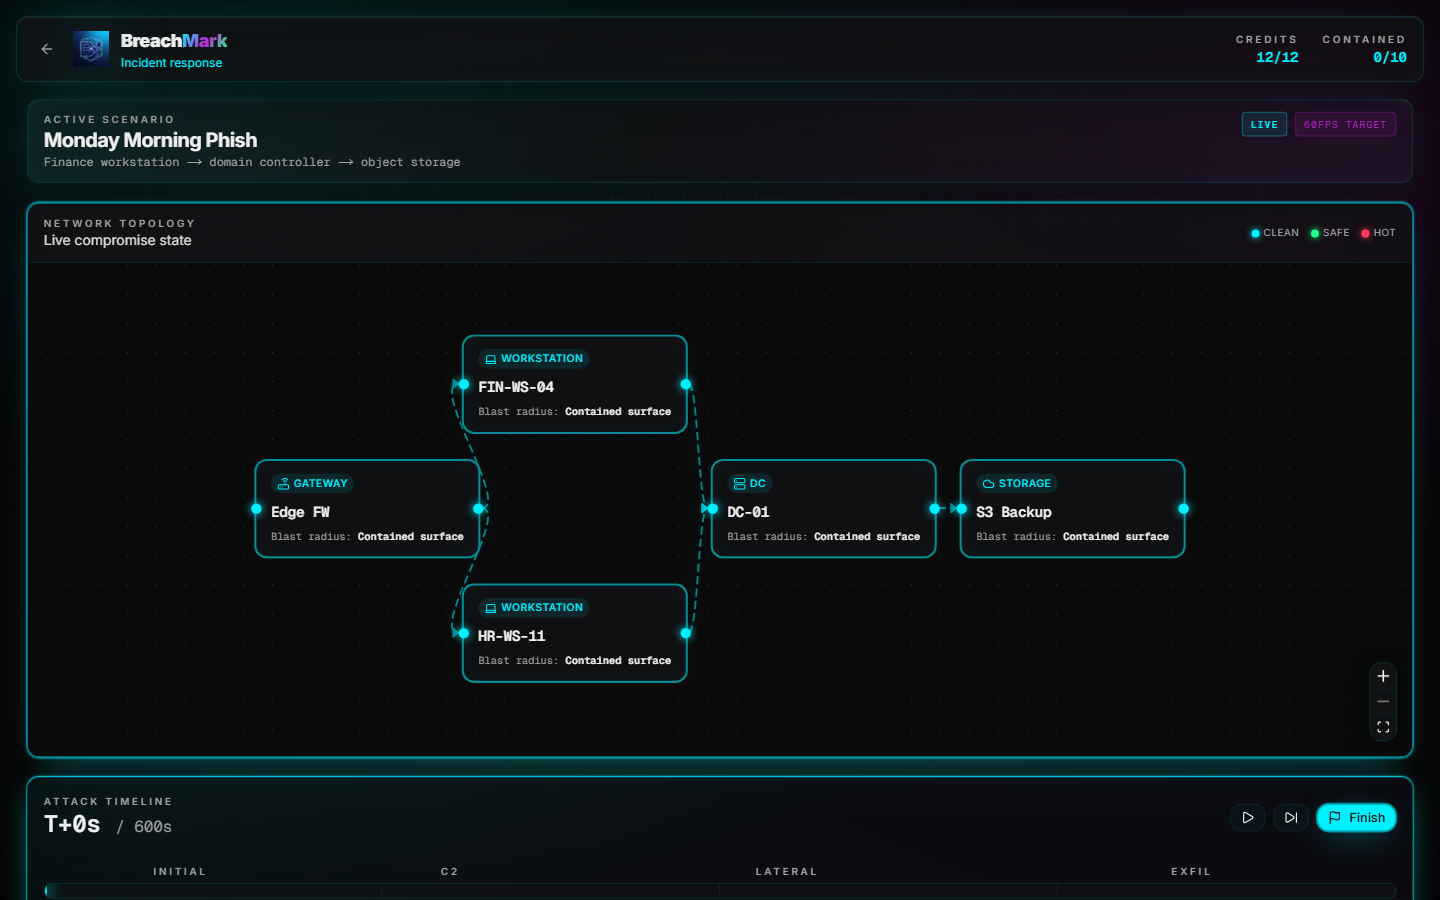
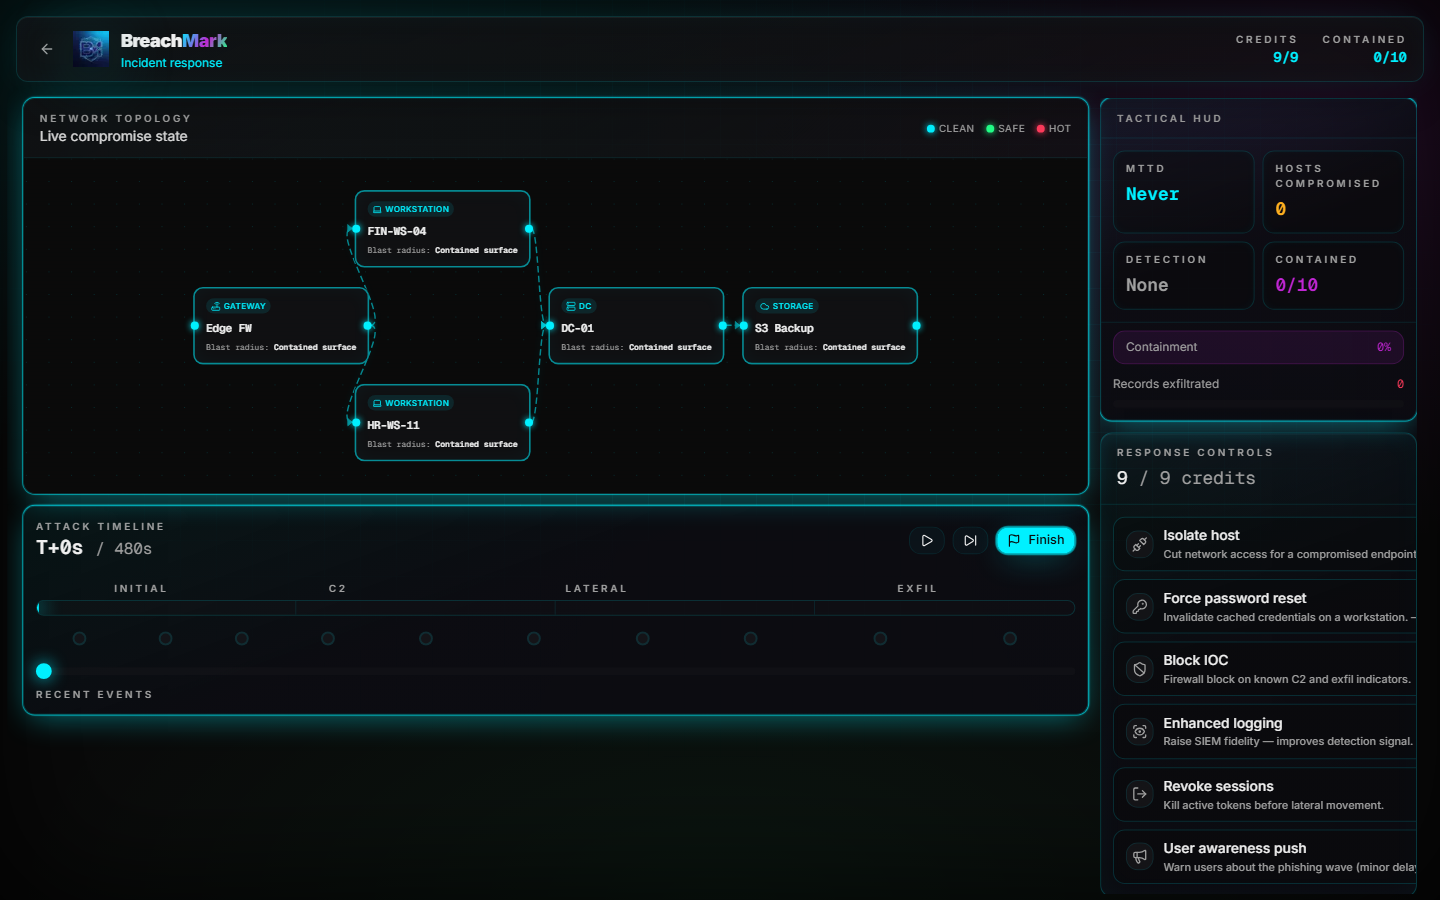
fix: tighten simulator layout and difficulty
Keep the play screen usable on laptop-sized viewports, make the network map feel static, and retune the default scenario so defensive choices are more constrained.

diff --git a/src/components/game/AttackTimeline.tsx b/src/components/game/AttackTimeline.tsx
@@ -13,13 +13,6 @@ import {
 import { cn } from "@/lib/utils";
 import { useSimulationStore } from "@/store/simulation-store";
 
-const PHASE_SEGMENTS = [
-  { label: "Initial", end: 120 },
-  { label: "C2", end: 240 },
-  { label: "Lateral", end: 420 },
-  { label: "Exfil", end: 600 },
-];
-
 function ShortcutBadge({ children }: { children: string }) {
   return (
     <kbd className="rounded border border-primary/25 bg-primary/10 px-1.5 py-0.5 font-mono text-[9px] text-primary">
@@ -37,6 +30,12 @@ export function AttackTimeline() {
   const setIsPlaying = useSimulationStore((s) => s.setIsPlaying);
   const finishScenario = useSimulationStore((s) => s.finishScenario);
   const progress = (simTime / scenario.maxTime) * 100;
+  const phaseSegments = [
+    { label: "Initial", end: scenario.maxTime * 0.2 },
+    { label: "C2", end: scenario.maxTime * 0.38 },
+    { label: "Lateral", end: scenario.maxTime * 0.7 },
+    { label: "Exfil", end: scenario.maxTime },
+  ];
 
   const skipToNext = () => {
     const next = scenario.events.find((ev) => ev.at > simTime);
@@ -47,11 +46,11 @@ export function AttackTimeline() {
   };
 
   return (
-    <GlassPanel glow variant="hud" className="space-y-4 p-4">
+    <GlassPanel glow variant="hud" className="space-y-3 p-3">
       <div className="flex flex-wrap items-center justify-between gap-3">
         <div>
           <p className="bm-tactical-label">Attack timeline</p>
-          <p className="font-mono text-2xl font-semibold text-foreground">
+          <p className="font-mono text-xl font-semibold text-foreground">
             T+{Math.floor(simTime)}s{" "}
             <span className="text-base font-normal text-muted-foreground">
               / {scenario.maxTime}s
@@ -119,8 +118,8 @@ export function AttackTimeline() {
 
       <div className="relative pt-2">
         <div className="mb-1 flex justify-between px-0.5">
-          {PHASE_SEGMENTS.map((seg, i) => {
-            const start = i === 0 ? 0 : PHASE_SEGMENTS[i - 1].end;
+          {phaseSegments.map((seg, i) => {
+            const start = i === 0 ? 0 : phaseSegments[i - 1].end;
             const width = ((seg.end - start) / scenario.maxTime) * 100;
             return (
               <span
@@ -136,7 +135,7 @@ export function AttackTimeline() {
 
         <div className="relative grid h-4 overflow-hidden rounded-xl border border-primary/15 bg-muted/30">
           <div className="absolute inset-0 grid grid-cols-4">
-            {PHASE_SEGMENTS.map((seg) => (
+            {phaseSegments.map((seg) => (
               <div key={seg.label} className="border-r border-primary/10 last:border-r-0" />
             ))}
           </div>
@@ -154,7 +153,7 @@ export function AttackTimeline() {
           />
         </div>
 
-        <div className="relative mt-3 h-12">
+        <div className="relative mt-2 h-8">
           {scenario.events.map((ev) => {
             const pct = (ev.at / scenario.maxTime) * 100;
             const resolved = replay.resolvedEvents.find(
@@ -168,7 +167,7 @@ export function AttackTimeline() {
                   <button
                     type="button"
                     className={cn(
-                      "bm-focus-ring absolute top-3 h-3.5 w-3.5 -translate-x-1/2 rounded-sm border-2 transition-all duration-200 ease-out hover:scale-125",
+                      "bm-focus-ring absolute top-2 h-3.5 w-3.5 -translate-x-1/2 rounded-sm border-2 transition-all duration-200 ease-out hover:scale-125",
                       passed &&
                         contained &&
                         "border-primary bg-primary shadow-[0_0_10px_rgba(0,240,255,0.7)]",
@@ -210,7 +209,7 @@ export function AttackTimeline() {
         aria-label="Scrub attack timeline"
       />
 
-      <div className="flex flex-wrap items-center gap-2 text-[11px]">
+      <div className="flex flex-wrap items-center gap-1.5 text-[10px]">
         <span className="bm-tactical-label text-[9px]">Recent events</span>
         {replay.resolvedEvents
           .filter((r) => r.event.at <= simTime)

diff --git a/src/components/game/ControlShop.tsx b/src/components/game/ControlShop.tsx
@@ -37,7 +37,7 @@ export function ControlShop() {
         </>
       }
     >
-      <ul className="grid gap-2.5 p-3">
+      <ul className="grid gap-2 p-3">
         {CONTROLS.map((control, index) => {
           const disabled = control.cost > replay.creditsRemaining;
           const selected = selectedControlId === control.id;
@@ -51,7 +51,7 @@ export function ControlShop() {
             <Button
               variant="ghost"
               className={cn(
-                "group/control relative h-auto w-full justify-start gap-3 overflow-hidden rounded-xl border border-primary/15 bg-background/35 px-3 py-2.5 text-left transition-all hover:border-primary/45 hover:bg-primary/10",
+                "group/control relative h-auto w-full justify-start gap-2.5 overflow-hidden rounded-xl border border-primary/15 bg-background/35 px-3 py-2 text-left transition-all hover:border-primary/45 hover:bg-primary/10",
                 selected &&
                   "border-primary/60 bg-primary/10 shadow-[inset_0_0_24px_-12px_rgba(0,240,255,0.65),0_0_22px_rgba(0,240,255,0.18)]",
                 disabled && "opacity-40 hover:border-destructive/50 hover:bg-destructive/10",
@@ -71,13 +71,13 @@ export function ControlShop() {
               </span>
               <span
                 className={cn(
-                  "flex h-8 w-8 shrink-0 items-center justify-center rounded-lg border",
+                  "flex h-7 w-7 shrink-0 items-center justify-center rounded-lg border",
                   selected
                     ? "border-primary/40 bg-primary/25 text-primary"
                     : "border-primary/10 bg-muted/80 text-muted-foreground",
                 )}
               >
-                {Icon ? <Icon className="h-4 w-4" /> : null}
+                  {Icon ? <Icon className="h-3.5 w-3.5" /> : null}
               </span>
               <span className="min-w-0 flex-1">
                 <span className="flex items-center justify-between gap-2">
@@ -87,7 +87,7 @@ export function ControlShop() {
                   <Badge
                     variant="secondary"
                     className={cn(
-                      "shrink-0 border border-primary/20 bg-primary/10 font-mono text-[10px] text-primary",
+                      "shrink-0 border border-primary/20 bg-primary/10 px-1.5 py-0 font-mono text-[10px] text-primary",
                       affordable && "bm-pulse-ring",
                       disabled && "border-destructive/30 bg-destructive/15 text-destructive",
                     )}
@@ -95,7 +95,7 @@ export function ControlShop() {
                     {control.cost} cr
                   </Badge>
                 </span>
-                <span className="mt-0.5 line-clamp-2 block text-xs leading-snug text-muted-foreground">
+                <span className="mt-0.5 line-clamp-2 block text-[11px] leading-snug text-muted-foreground">
                   {control.description}
                   {control.requiresTarget && " — click a host on the graph"}
                 </span>

diff --git a/src/components/game/GamePlay.tsx b/src/components/game/GamePlay.tsx
@@ -50,16 +50,16 @@ export function GamePlay() {
   }, [lastToast, clearToast]);
 
   return (
-    <div className="mx-auto flex w-full max-w-[1680px] flex-col gap-5 px-3 pb-8 pt-3 sm:px-5">
-      <div className="grid items-start gap-5 2xl:grid-cols-[minmax(0,1fr)_360px]">
-        <div className="flex min-w-0 flex-col gap-5">
-          <div className="h-[440px] min-h-[440px] sm:h-[500px] lg:h-[560px] 2xl:h-[600px]">
+    <div className="mx-auto flex w-full max-w-[1500px] flex-col gap-3 px-3 pb-5 pt-3 sm:px-4 lg:h-[calc(100vh-5.25rem)] lg:min-h-[640px] lg:overflow-hidden">
+      <div className="grid min-h-0 flex-1 items-start gap-3 lg:grid-cols-[minmax(0,1fr)_320px] 2xl:grid-cols-[minmax(0,1fr)_350px]">
+        <div className="flex min-h-0 min-w-0 flex-col gap-3">
+          <div className="h-[360px] min-h-[360px] sm:h-[390px] lg:h-[min(42vh,380px)] xl:h-[min(46vh,400px)] 2xl:h-[min(48vh,430px)]">
             <NetworkGraph />
           </div>
           <AttackTimeline />
         </div>
 
-        <aside className="hidden max-h-[calc(100vh-7rem)] flex-col gap-4 overflow-y-auto pr-1 2xl:sticky 2xl:top-24 2xl:flex">
+        <aside className="hidden max-h-[calc(100vh-5.5rem)] min-h-0 flex-col gap-3 overflow-hidden lg:sticky lg:top-20 lg:flex">
           <SidePanel />
         </aside>
       </div>
@@ -67,7 +67,7 @@ export function GamePlay() {
       <Sheet open={sheetOpen} onOpenChange={setSheetOpen}>
         <SheetTrigger asChild>
           <Button
-            className="bm-glow-cyan fixed bottom-20 right-4 z-30 2xl:hidden"
+            className="bm-glow-cyan fixed bottom-20 right-4 z-30 lg:hidden"
             size="lg"
             aria-label="Open response controls"
           >

diff --git a/src/lib/simulation/controls.ts b/src/lib/simulation/controls.ts
@@ -13,7 +13,7 @@ export const CONTROLS: ControlDefinition[] = [
     id: "isolate-host",
     name: "Isolate host",
     description: "Cut network access for a compromised endpoint.",
-    cost: 3,
+    cost: 4,
     requiresTarget: true,
     targetRoles: ["workstation", "dc", "gateway"],
   },
@@ -21,7 +21,7 @@ export const CONTROLS: ControlDefinition[] = [
     id: "reset-user-creds",
     name: "Force password reset",
     description: "Invalidate cached credentials on a workstation.",
-    cost: 2,
+    cost: 3,
     requiresTarget: true,
     targetRoles: ["workstation"],
   },
@@ -29,28 +29,28 @@ export const CONTROLS: ControlDefinition[] = [
     id: "block-ioc",
     name: "Block IOC",
     description: "Firewall block on known C2 and exfil indicators.",
-    cost: 2,
+    cost: 3,
     requiresTarget: false,
   },
   {
     id: "enhanced-logging",
     name: "Enhanced logging",
     description: "Raise SIEM fidelity — improves detection signal.",
-    cost: 2,
+    cost: 3,
     requiresTarget: false,
   },
   {
     id: "revoke-sessions",
     name: "Revoke sessions",
     description: "Kill active tokens before lateral movement.",
-    cost: 3,
+    cost: 4,
     requiresTarget: false,
   },
   {
     id: "awareness-push",
     name: "User awareness push",
     description: "Warn users about the phishing wave (minor delay).",
-    cost: 1,
+    cost: 2,
     requiresTarget: false,
   },
 ];

diff --git a/src/components/game/LandingHero.tsx b/src/components/game/LandingHero.tsx
@@ -79,7 +79,7 @@ export function LandingHero() {
               <span className="hidden text-border sm:inline">|</span>
               <span className="text-accent">DEFCON · SIM</span>
               <span className="hidden text-border sm:inline">|</span>
-              <span>CREDITS: 12</span>
+              <span>CREDITS: 9</span>
             </p>
           </motion.div>
 
@@ -87,7 +87,7 @@ export function LandingHero() {
             variants={item}
             className="max-w-xl text-lg leading-relaxed text-muted-foreground"
           >
-            Twelve response credits. A live attack timeline. A network graph that
+            Nine response credits. A live attack timeline. A network graph that
             reacts when you pause the breach and deploy controls.
           </motion.p>
 
@@ -170,7 +170,7 @@ export function LandingHero() {
                 <HeroGraphPreview />
               </div>
               <div className="grid grid-cols-2 gap-2 font-mono text-xs">
-                <PreviewStat label="Credits" value="7 / 12" accent />
+                <PreviewStat label="Credits" value="4 / 9" accent />
                 <PreviewStat label="MTTD" value="62s" />
                 <PreviewStat label="Hosts lost" value="1" warn />
                 <PreviewStat label="Exfil" value="0 rec" accent />

diff --git a/src/components/game/NetworkGraph.tsx b/src/components/game/NetworkGraph.tsx
@@ -2,7 +2,6 @@
 
 import {
   Background,
-  Controls,
   Handle,
   MarkerType,
   Position,
@@ -299,17 +298,24 @@ function NetworkGraphInner() {
           nodeTypes={nodeTypes}
           onNodeClick={onNodeClick}
           fitView
-          fitViewOptions={{ padding: 0.42 }}
-          minZoom={0.4}
-          maxZoom={1.5}
+          fitViewOptions={{ padding: 0.24 }}
+          minZoom={0.25}
+          maxZoom={1.1}
           proOptions={{ hideAttribution: true }}
           nodesDraggable={false}
           nodesConnectable={false}
-          panOnScroll
-          className="dark h-full min-h-[300px] bg-[#0a0a0a]"
+          nodesFocusable={false}
+          edgesFocusable={false}
+          elementsSelectable={false}
+          panOnDrag={false}
+          panOnScroll={false}
+          zoomOnScroll={false}
+          zoomOnPinch={false}
+          zoomOnDoubleClick={false}
+          preventScrolling={false}
+          className="dark h-full min-h-[240px] bg-[#0a0a0a]"
         >
           <Background color="#00f0ff" gap={28} size={1} />
-          <Controls showInteractive={false} position="bottom-right" />
         </ReactFlow>
       </div>
     </GlassPanel>

diff --git a/src/components/game/GameShell.tsx b/src/components/game/GameShell.tsx
@@ -2,6 +2,7 @@
 
 import dynamic from "next/dynamic";
 import { AnimatePresence, motion } from "framer-motion";
+import { useEffect } from "react";
 import { LandingHero } from "@/components/game/LandingHero";
 import { useSimulationStore } from "@/store/simulation-store";
 
@@ -24,6 +25,13 @@ const phaseMotion = {
 
 export function GameShell() {
   const phase = useSimulationStore((s) => s.phase);
+  const setPhase = useSimulationStore((s) => s.setPhase);
+
+  useEffect(() => {
+    if (window.location.search.includes("phase=play")) {
+      setPhase("play");
+    }
+  }, [setPhase]);
 
   return (
     <AnimatePresence mode="wait">

diff --git a/src/components/game/MetricsHUD.tsx b/src/components/game/MetricsHUD.tsx
@@ -10,7 +10,7 @@ export function MetricsHUD() {
   const replay = useSimulationStore((s) => s.replay);
   const scenario = useSimulationStore((s) => s.scenario);
   const m = replay.metrics;
-  const exfilPct = Math.min(100, (m.recordsExfiltrated / 20600) * 100);
+  const exfilPct = Math.min(100, (m.recordsExfiltrated / 29800) * 100);
   const containmentPct = Math.round((m.eventsContained / scenario.events.length) * 100);
 
   const stats = [

diff --git a/src/components/game/BriefingPanel.tsx b/src/components/game/BriefingPanel.tsx
@@ -52,7 +52,7 @@ export function BriefingPanel() {
             ))}
           </ol>
           <p className="rounded-xl border border-primary/25 bg-primary/5 px-3 py-2 text-xs text-primary">
-            Tip: Isolate FIN-WS-04 before T+180s or reset credentials early to
+            Tip: Isolate FIN-WS-04 before T+135s or reset credentials early to
             keep DC-01 clean.
           </p>
           <Button

diff --git a/src/lib/simulation/engine.test.ts b/src/lib/simulation/engine.test.ts
@@ -50,7 +50,7 @@ describe("replayToTime", () => {
       { controlId: "block-ioc", appliedAt: 50 },
     ];
     const result = replayToTime(scenario, controls, 600);
-    expect(result.creditsSpent).toBe(3);
-    expect(result.creditsRemaining).toBe(9);
+    expect(result.creditsSpent).toBe(5);
+    expect(result.creditsRemaining).toBe(4);
   });
 });
